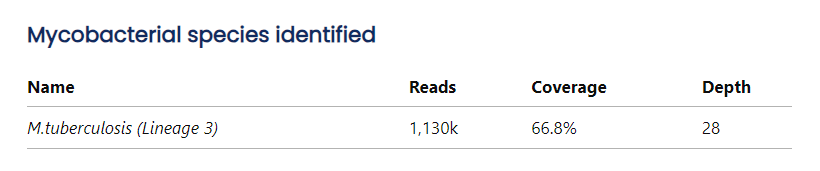
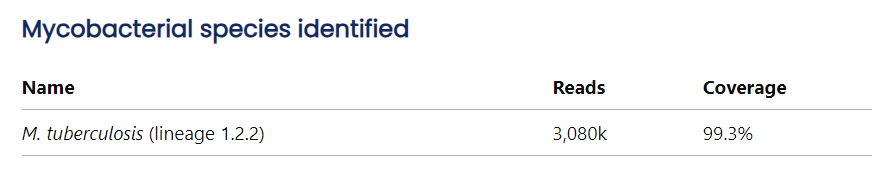
docs: Update speciation screenshots

diff --git a/speciation.md b/speciation.md
@@ -65,13 +65,13 @@ The remainder of the JSON data (e.g. "Phylogenic Group") is drawn from different
 
 Some of the information appears in the "Mycobacterial species identified" section of the user interface e.g.
 
-![M.tuberculosis](docs/mycobacterial_species_identified.png)
+![M. tuberculosis](docs/mycobacterial_species_identified.png)
 
-_Mycobacterium tuberculosis_ (Lineage 3)
+_Mycobacterium tuberculosis_ (Lineage 1.2.2)
 
-![M.fortuitum_fortuitum](docs/subspecies.png)
+![M. abscessus subsp. massiliense](docs/subspecies.png)
 
-_Mycobacterium fortuitum_ subspecies _fortuitum_
+_Mycobacterium abscessus_ subspecies _massiliense_
 
 The "**main species**" reported in the batch view is the first species in this list.
 If the mycobacteria pipeline reaches a point where an _M. tuberculosis_ genome is assembled (and thus variants are called, relatedness and AMR information generated), _M. tuberculosis_ is always the main species (with lineage information appended, as appropriate).
